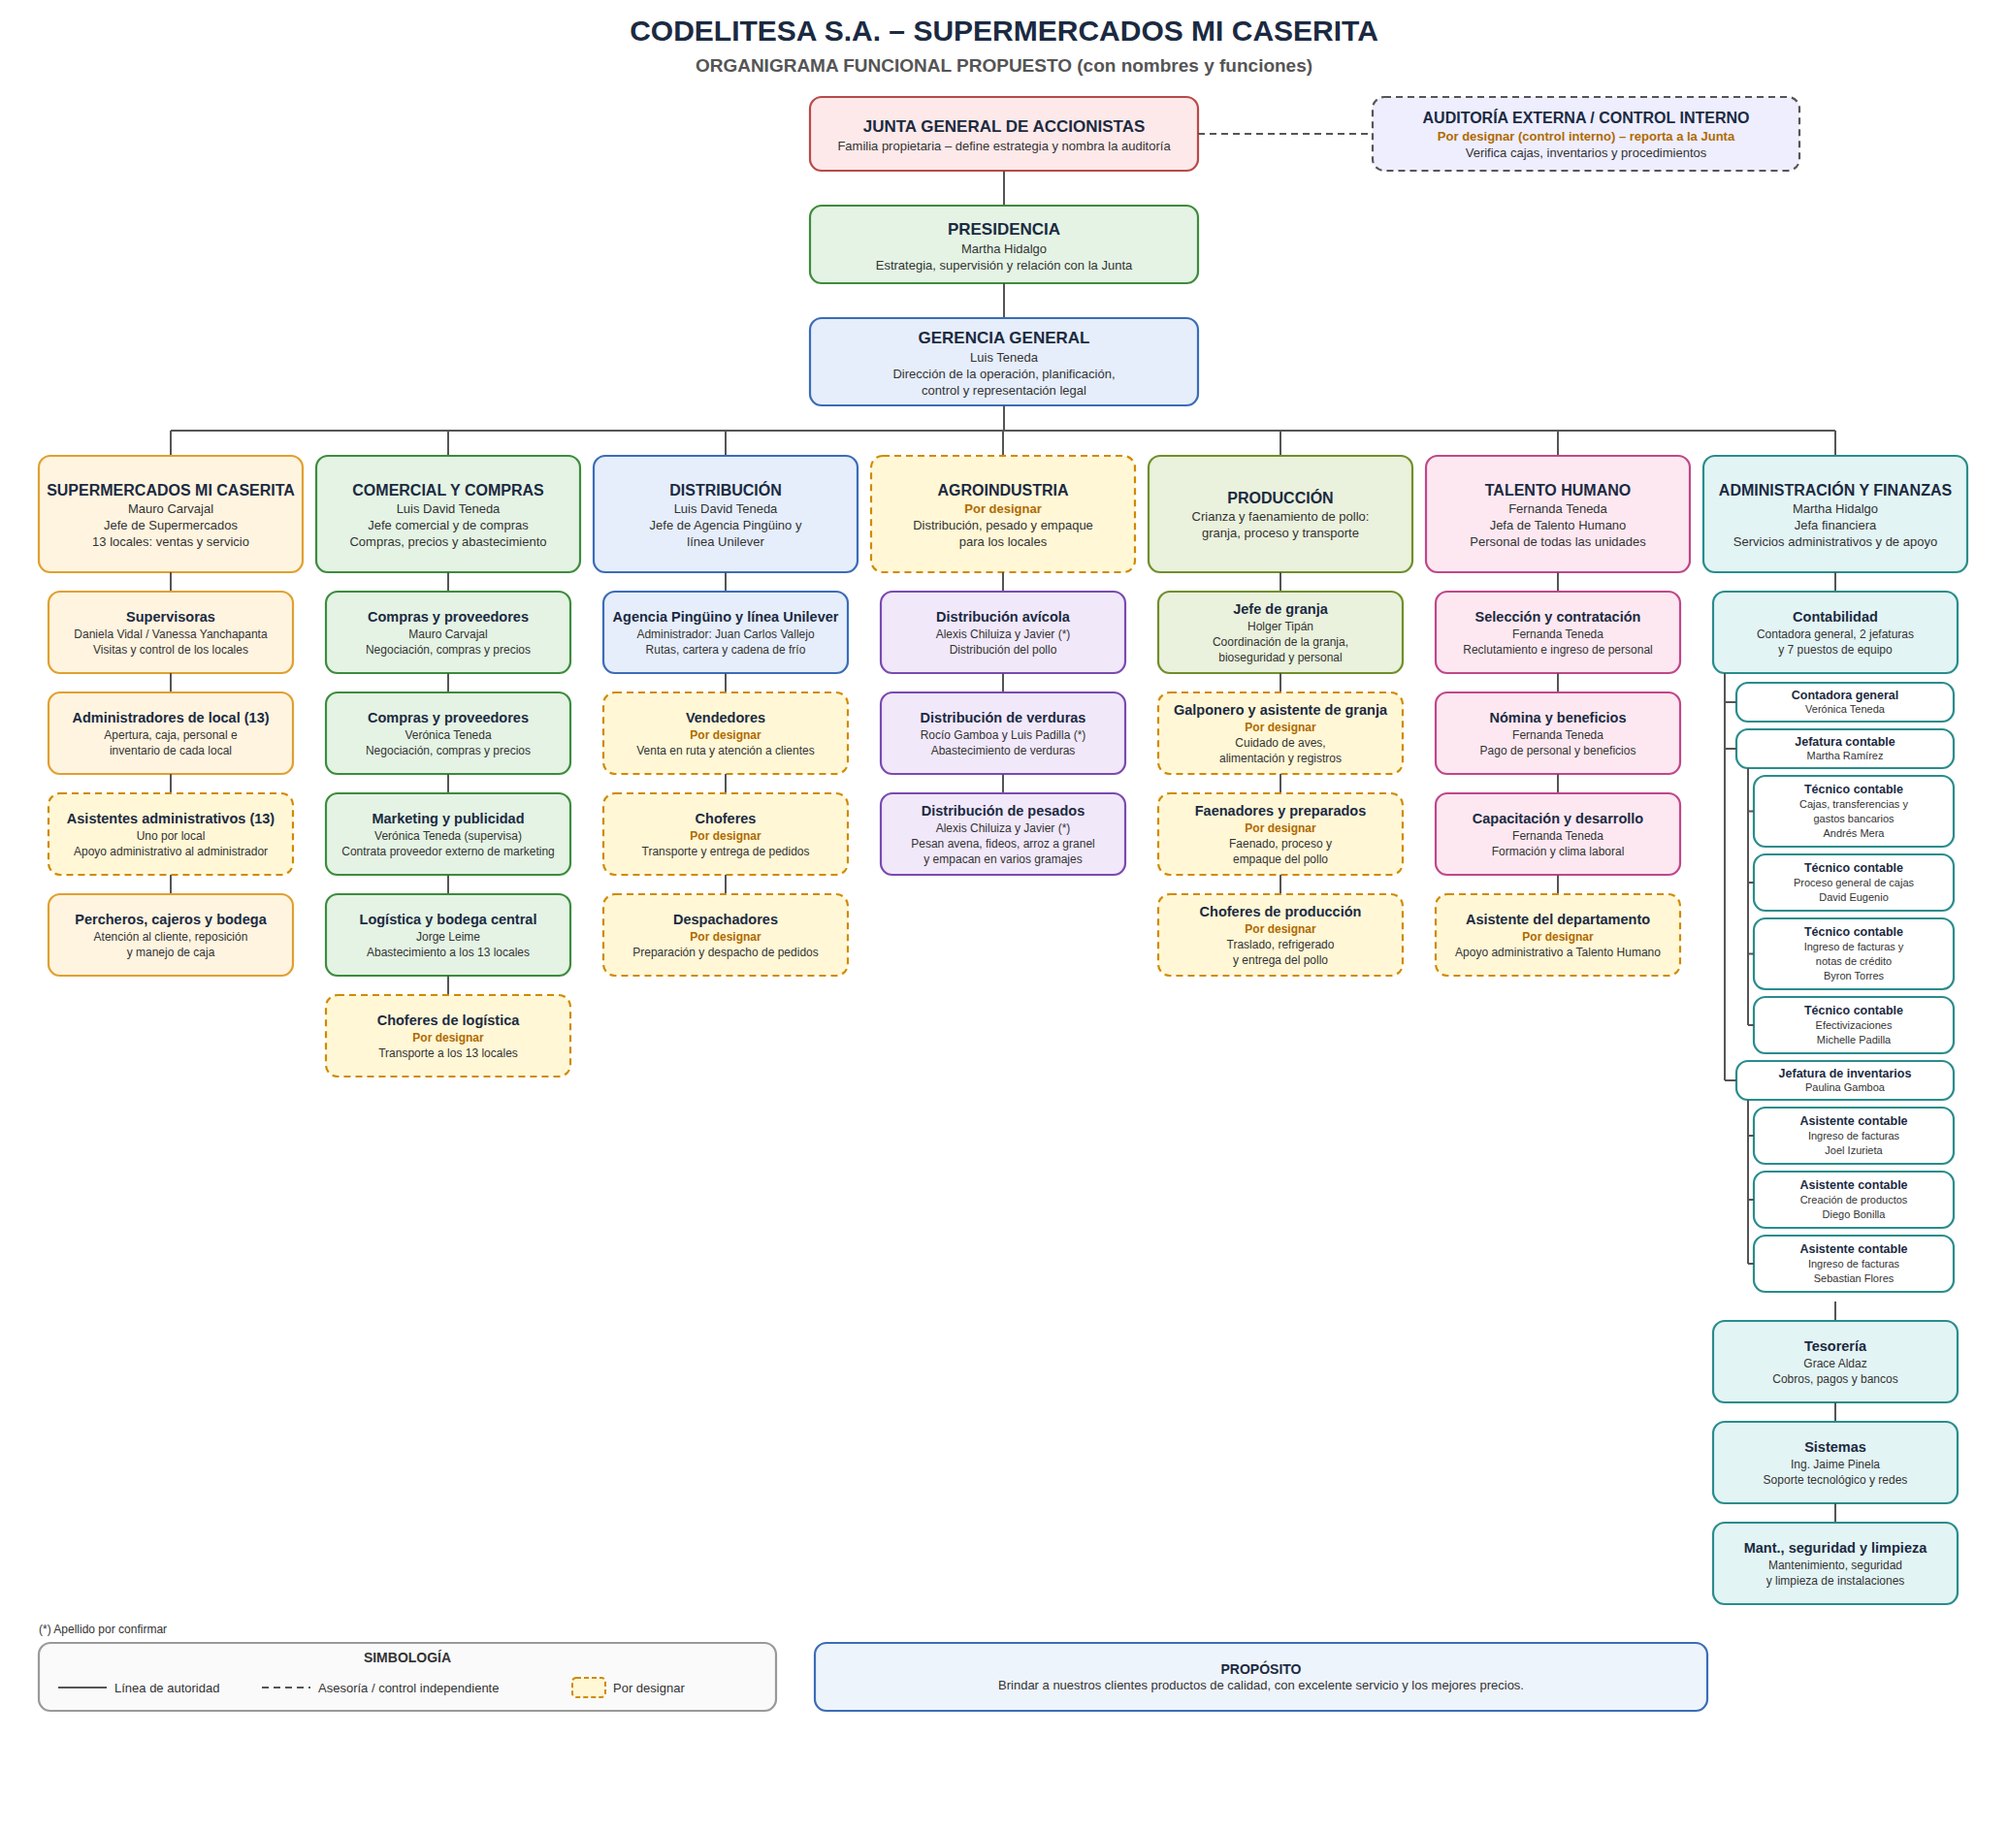
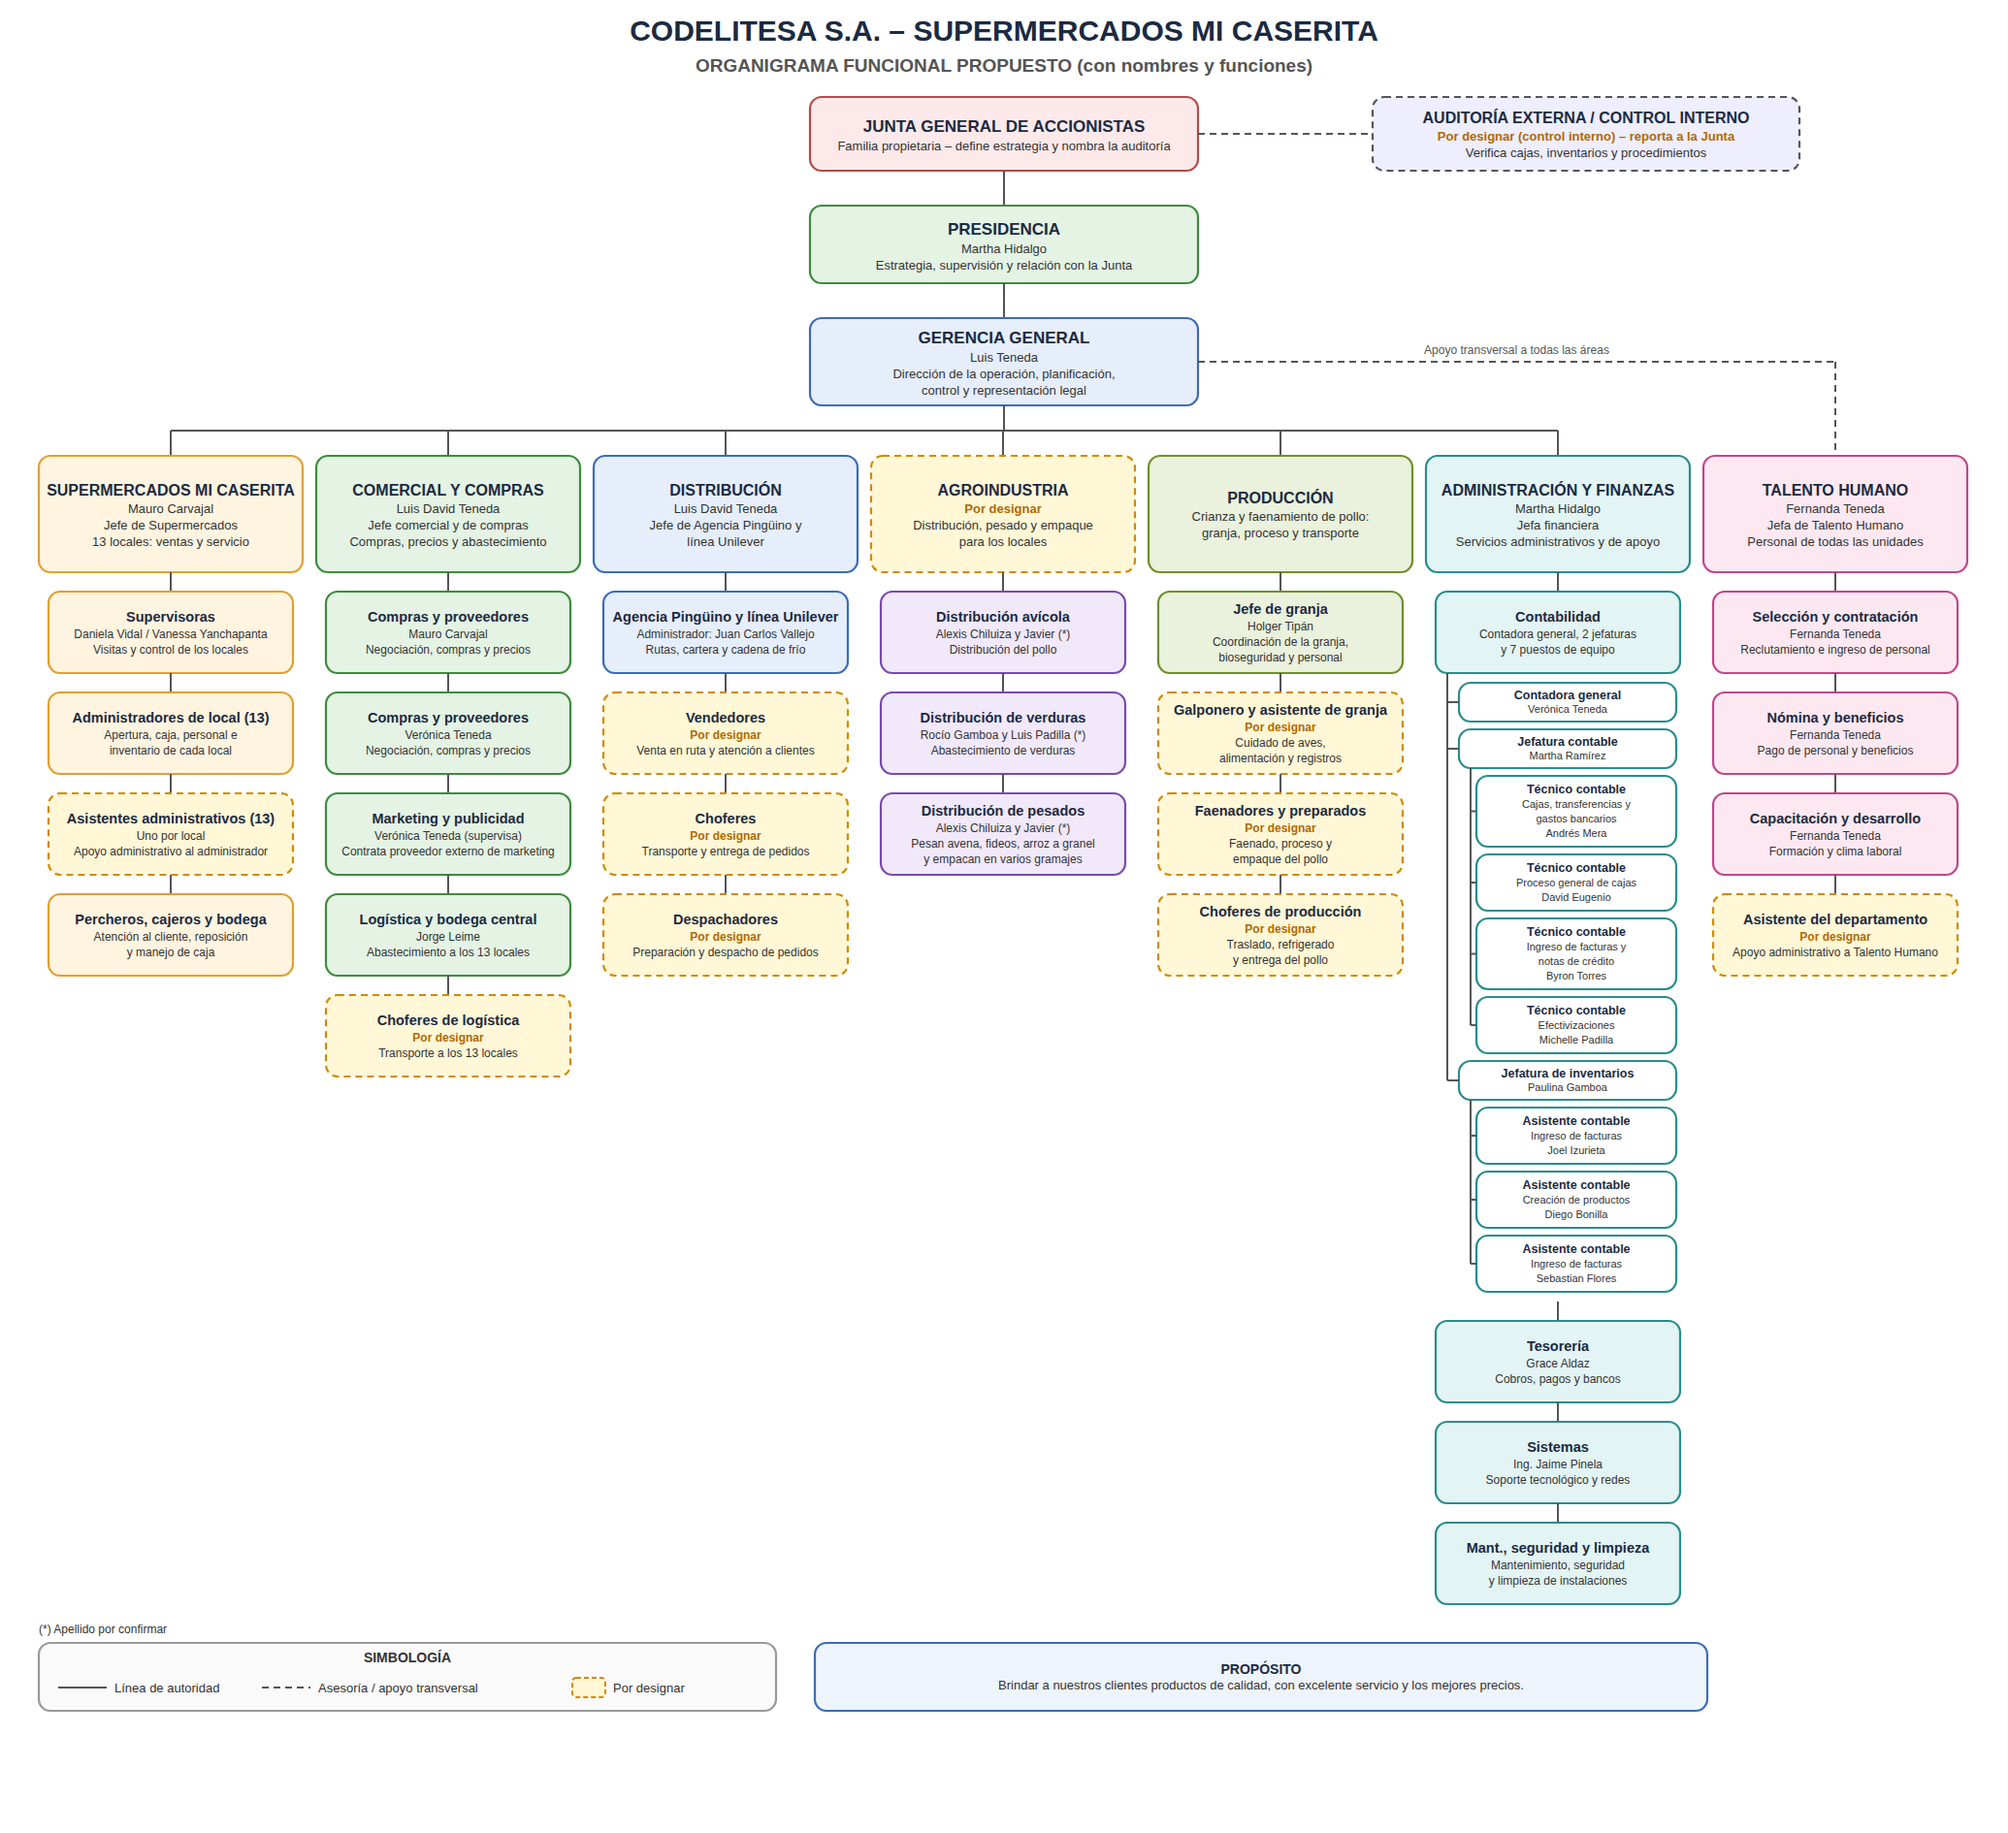
Talento Humano como unidad de apoyo con línea punteada a Gerencia General
Claude-Session: https://claude.ai/code/session_012Bb6M7hyJwwVBojnoHpByV

Changed region(s): [[0.7111, 0.2497, 0.9894, 0.8741], [0.7111, 0.1873, 0.7729, 0.2185], [0.1855, 0.9053, 0.2164, 0.9365]]

diff --git a/organigrama/gen.py b/organigrama/gen.py
@@ -1,6 +1,6 @@
 import html
 W=2070
-COL=[("#fff4e0","#e0a030"),("#e4f3e4","#3c8c3c"),("#e6eefb","#3b6cb7"),("#f1e8fa","#7a4ab0"),("#eaf1dc","#6f8f2a"),("#fde8f1","#c0478a"),("#e3f4f4","#2a8c8c")]
+COL=[("#fff4e0","#e0a030"),("#e4f3e4","#3c8c3c"),("#e6eefb","#3b6cb7"),("#f1e8fa","#7a4ab0"),("#eaf1dc","#6f8f2a"),("#e3f4f4","#2a8c8c"),("#fde8f1","#c0478a")]
 GREEN=("#e4f3e4","#3c8c3c")
 def esc(s):return html.escape(s)
 class S:
@@ -76,11 +76,6 @@ def build(func):
         ("Galponero y asistente de granja",["Por designar","Cuidado de aves,","alimentación y registros"],1),
         ("Faenadores y preparados",["Por designar","Faenado, proceso y","empaque del pollo"],1),
         ("Choferes de producción",["Por designar","Traslado, refrigerado","y entrega del pollo"],1)]),
-     ("TALENTO HUMANO",["Fernanda Teneda","Jefa de Talento Humano","Personal de todas las unidades"],"",[
-        ("Selección y contratación",["Fernanda Teneda","Reclutamiento e ingreso de personal"],0),
-        ("Nómina y beneficios",["Fernanda Teneda","Pago de personal y beneficios"],0),
-        ("Capacitación y desarrollo",["Fernanda Teneda","Formación y clima laboral"],0),
-        ("Asistente del departamento",["Por designar","Apoyo administrativo a Talento Humano"],1)]),
      ("ADMINISTRACIÓN Y FINANZAS",["Martha Hidalgo","Jefa financiera","Servicios administrativos y de apoyo"],"",[
         ("Contabilidad",["Contadora general, 2 jefaturas","y 7 puestos de equipo"],0,[
             ("Contadora general",["Verónica Teneda"],0,1),
@@ -95,11 +90,20 @@ def build(func):
             ("Asistente contable",["Ingreso de facturas","Sebastian Flores"],0,2)]),
         ("Tesorería",["Grace Aldaz","Cobros, pagos y bancos"],0),
         ("Sistemas",["Ing. Jaime Pinela","Soporte tecnológico y redes"],0),
-        ("Mant., seguridad y limpieza",["Mantenimiento, seguridad","y limpieza de instalaciones"],0)])]
+        ("Mant., seguridad y limpieza",["Mantenimiento, seguridad","y limpieza de instalaciones"],0)]),
+     ("TALENTO HUMANO",["Fernanda Teneda","Jefa de Talento Humano","Personal de todas las unidades"],"",[
+        ("Selección y contratación",["Fernanda Teneda","Reclutamiento e ingreso de personal"],0),
+        ("Nómina y beneficios",["Fernanda Teneda","Pago de personal y beneficios"],0),
+        ("Capacitación y desarrollo",["Fernanda Teneda","Formación y clima laboral"],0),
+        ("Asistente del departamento",["Por designar","Apoyo administrativo a Talento Humano"],1)])]
     for i,(t,ls,_,ch) in enumerate(cols):
         ch=[c if len(c)==4 else c+(None,) for c in ch]
         x=x0+i*(w+gap);mx=x+w/2
-        s.line(mx,bus,mx,hy) ; 
+        if i==6:
+            ym=gy+(45 if func else 28)
+            s.line(cx+200,ym,mx,ym,True); s.line(mx,ym,mx,hy,True)
+            s.text((cx+200+mx)/2,ym-8,"Apoyo transversal a todas las áreas",12,fill="#555")
+        else: s.line(mx,bus,mx,hy)
         fill,stroke=COL[i]
         pend=("Por designar" in ls[0]) if func else False
         s.box(x,hy,w,hh,t,ls if func else [],fill=fill,stroke=stroke,pending=pend,tsize=16)
@@ -135,13 +139,13 @@ def build(func):
                             s.line(x+46,py_+ph,x+46,kids[-1][0]+kids[-1][1]/2)
                             for q in kids: s.line(x+46,q[0]+q[1]/2,x+52,q[0]+q[1]/2)
                 y+=2
-    xs=[x0+i*(w+gap)+w/2 for i in range(7)]
+    xs=[x0+i*(w+gap)+w/2 for i in range(6)]
     s.line(xs[0],bus,xs[-1],bus)
     # legend
     ly=H-96
     s.box(40,ly,760,70,"",[],fill="#fafafa",stroke="#999",tsize=14);s.text(420,ly+20,"SIMBOLOGÍA",14,weight="700")
     s.line(60,ly+46,110,ly+46);s.text(118,ly+51,"Línea de autoridad",13,"start")
-    s.line(270,ly+46,320,ly+46,True);s.text(328,ly+51,"Asesoría / control independiente",13,"start")
+    s.line(270,ly+46,320,ly+46,True);s.text(328,ly+51,"Asesoría / apoyo transversal",13,"start")
     s.o.append(f'<rect x="590" y="{ly+36}" width="34" height="20" rx="4" fill="#fff7d6" stroke="#d08a00" stroke-width="2" stroke-dasharray="5 3"/>')
     s.text(632,ly+51,"Por designar",13,"start");s.text(40,ly-10,"(*) Apellido por confirmar",12,"start")
     if func: s.box(840,ly,920,70,"PROPÓSITO",["Brindar a nuestros clientes productos de calidad, con excelente servicio y los mejores precios."],fill="#eef4fb",stroke="#3b6cb7",tsize=14)
